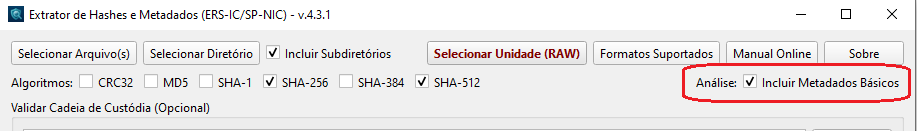
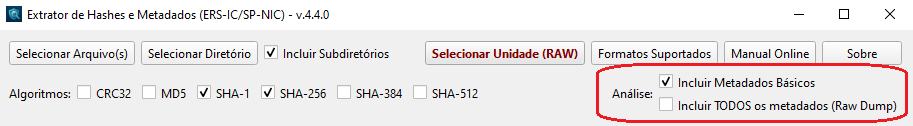
docs: atualiza MANUAL.md
- Atualiza com informações e screenshots da nova funcionalidade de "Incluir TODOS os metadados (Raw Dump)"

diff --git a/MANUAL.md b/MANUAL.md
@@ -36,6 +36,7 @@ A forma mais rápida de utilizar o programa é através da técnica de "arrastar
 
 * **Configuração:** Selecione os algoritmos de hash desejados no painel superior (SHA-256 e SHA-512 são recomendados e vêm marcados por padrão).
 * **Incluir Subdiretórios:** Selecione esse campo se quiser analisar todos os arquivos contidos em todos os subdiretórios contidos no diretório selecionado.
+* **Seleção de Metadados:** Selecione "Metadados Básicos", que é uma seleção dos metadados mais utilizados, ou "TODOS os metadados (Raw Dump)" para ver todos os itens disponíveis encontrados.
 
     <figure>
       <img src="imgs/config_drag_drop.PNG" alt="Área de seleção de configurações." style="border: 1px solid black;" width="100%">
@@ -126,7 +127,7 @@ O extrator permite auditar listagens de hashes recebidas em laudos de terceiros 
 ---
     
 ## 4. Analisando Metadados e Alertas Periciais
-Ao marcar a opção "Incluir Metadados Básicos", o programa realiza uma extração profunda através de diversas bibliotecas forenses:
+Ao marcar a opção "Incluir Metadados Básicos", o programa realiza uma extração dos metadados mais utilizados através de diversas bibliotecas forenses. A opção "TODOS os metadados (Raw Dump)" vai listar todos os itens disponíveis encontrados:
 
 * **Multimídia:** Coordenadas GPS (com link para mapas), marcas de câmeras e análise avançada de FPS (taxa de quadros) em vídeos.
 * **ADS (NTFS):** O programa alerta sobre dados ocultos em fluxos de dados alternativos e fornece comandos PowerShell prontos para extração de payloads.
